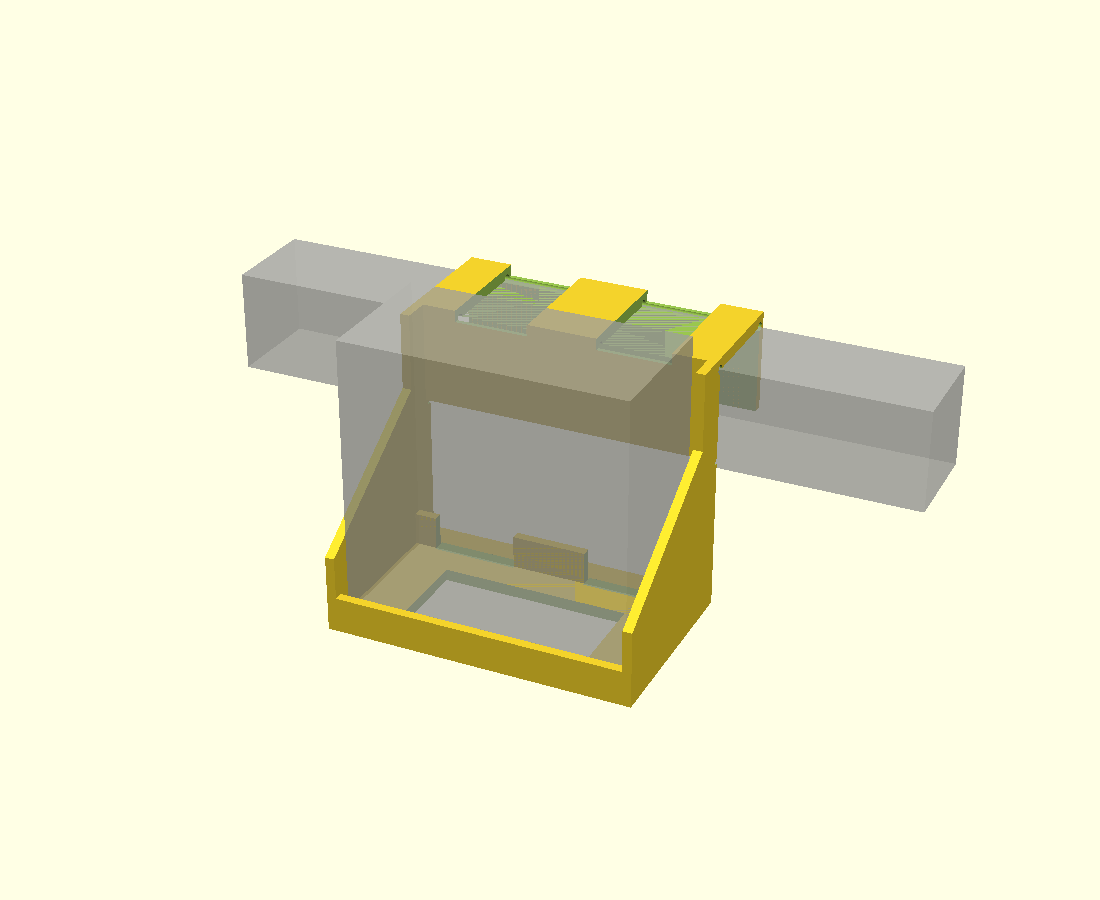
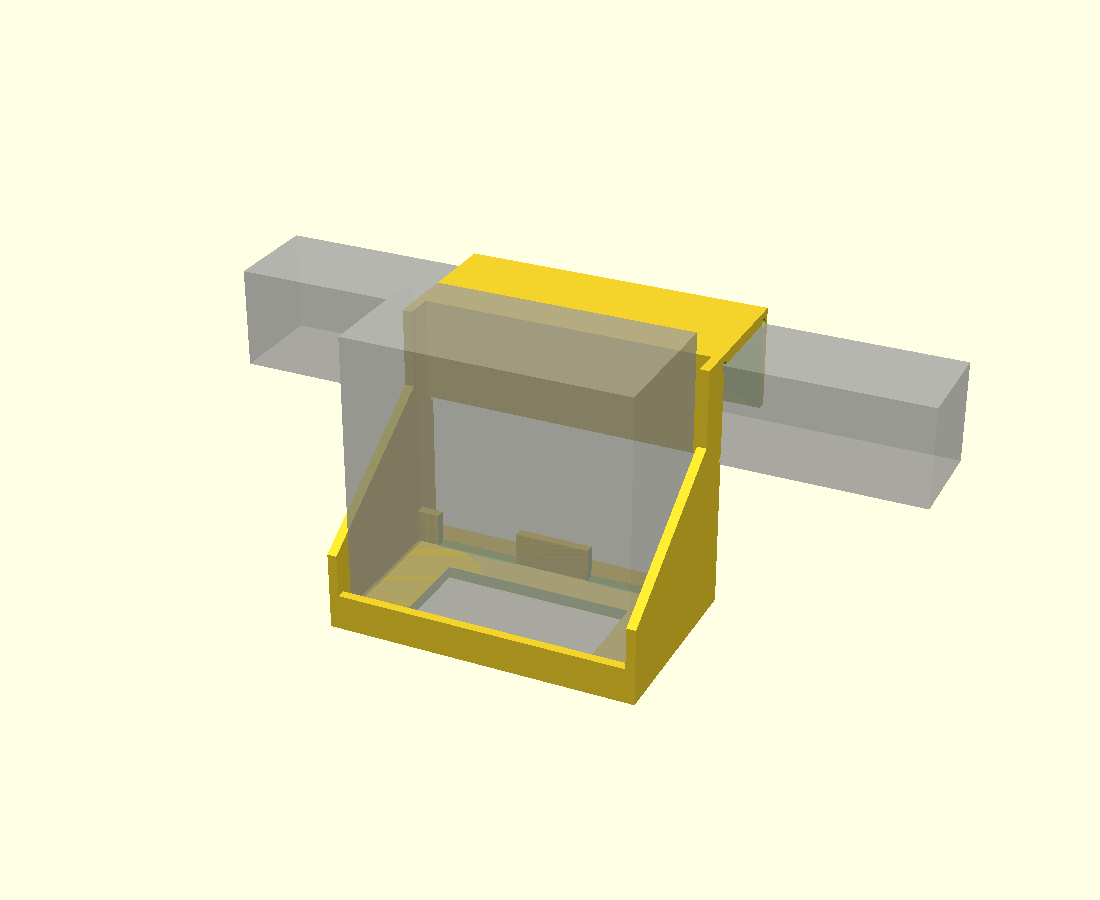
Simplify the rail saddle to a plain cap
Drop the two M4 clamp bosses and the top-plate lightening windows from
the default build, so the part that goes over the bed frame is a plain
inverted-U cap with nothing sticking out of it. Both features stay in
the source behind CLAMP_SCREWS and LIGHTEN for anyone who wants them
back; the README now points at a felt or rubber shim as the first answer
if the holder slides along the rail.

Triangle count drops from 2212 to 628 and the depth from 136.6 to
130.6 mm; the part is 13 cm3 heavier without the lightening windows.
Still manifold, still a single connected solid, still support-free.

Claude-Session: https://claude.ai/code/session_01VNsPG23j2ecuER3e7h8Lfk

diff --git a/hardware/sac5a-controller-mount/README.md b/hardware/sac5a-controller-mount/README.md
@@ -66,9 +66,9 @@
 
 ```
         ← ベッド側          外側 →
-              ┌───────────┐            ← M4 クランプねじ ×2
-         ●━━━━│  ∩ サドル  │              (ベッド側の脚から締める)
-              └─────┬─────┘            角パイプ 43×43 に上からかぶせる
+              ┌───────────┐
+              │  ∩ サドル  │            角パイプ 43×43 に上からかぶせるだけ
+              └─────┬─────┘            (ねじ・金具なしの一枚キャップ)
      角パイプ ══════╪══════
                    │  ↕ 12mm スタンドオフ
               ┌────┴──────────┐
@@ -109,11 +109,11 @@
 
 | 項目 | 値 |
 |---|---|
-| 全体寸法 | **131 (W) × 136.6 (D) × 110 (H) mm** |
+| 全体寸法 | **131 (W) × 130.6 (D) × 110 (H) mm** |
 | ポケット内寸 | 123 (W) × 63 (D) mm（本体 120×60 に片側 1.5 mm クリアランス） |
 | サドル内寸 | 43.6 mm |
-| 体積 | 145 cm³ |
-| 造形重量の目安 | 100 % 充填で約 180 g / 実用設定で **120〜140 g 程度** |
+| 体積 | 158 cm³ |
+| 造形重量の目安 | 100 % 充填で約 196 g / 実用設定で **130〜150 g 程度** |
 
 ---
 
@@ -131,19 +131,21 @@
 | サポート | **不要** |
 | ブリッジ | サドル天板の裏側が **43.6 mm のブリッジ**になります。ブリッジが苦手なプリンタはこの部分だけサポートを追加してください |
 
-ねじボスは 45° の円錐にしてあるので、水平方向に出ていてもサポートなしで造形できます。
-
 ---
 
 ## 5. 組み立て・取り付け
 
-**用意するもの**：M4 × 25 なべ小ねじ × 2 本（下穴 Ø3.4 のセルフタッピング）
+**ねじ・金具は不要です。**
 
-1. ベッドフレームの角パイプに、ホルダーを**上からかぶせる**
-2. ベッド側の脚にある 2 つのボスから **M4 ねじをねじ込み**、先端を角パイプに当ててガタを止める
-   （締めすぎるとボスが割れます。手応えが出たら止める）
-3. 制御タイマーを**上から落とし込む**（ディスプレイと操作ボタンが外側を向く向き）
-4. 背面の開口部から**送風機プラグと電源ケーブルを接続**し、背面リップの切り欠きにケーブルを通して下へ逃がす
+1. ベッドフレームの角パイプに、ホルダーを**上からかぶせる**（脚の下端に面取りがあるので入りやすいはずです）
+2. 制御タイマーを**上から落とし込む**（ディスプレイと操作ボタンが外側を向く向き）
+3. 背面の開口部から**送風機プラグと電源ケーブルを接続**し、背面リップの切り欠きにケーブルを通して下へ逃がす
+
+**レール上を横に滑ってしまう場合**は、次のどちらかで止まります。
+
+- サドルの内側に**フェルトかゴムシートを 1 枚貼る**（いちばん手軽）
+- `CLAMP_SCREWS = true` にして再ビルドすると、ベッド側の脚に **M4 ねじボスが 2 か所**生えます
+  （M4 × 25 なべ小ねじ × 2 本、下穴 Ø3.4 のセルフタッピング。締めすぎるとボスが割れるので手応えが出たら止める）
 
 > **電池交換（年1回）のときは本体を一度持ち上げて外してください。**
 > ホルダーに載せたままでは電池カバーのツマミを回すスペースがありません。
@@ -165,7 +167,8 @@
 | `DROP` | 100 | 落とし込み量（**98 未満にしない**） |
 | `SIDE_H_BACK` / `SIDE_H_FRONT` | 72 / 28 | 側板の高さ（背面側 / 正面側） |
 | `FRONT_LIP_H` | 10 | 正面リップ。**上げすぎると操作ボタンを塞ぐ** |
-| `CLAMP_SCREWS` | true | false にするとねじなしの摩擦保持だけになる |
+| `CLAMP_SCREWS` | false | true にするとベッド側の脚に M4 ねじボスが 2 か所生える |
+| `LIGHTEN` | false | true にするとサドル天板に肉抜き窓が 2 か所開く（約 16 g 軽くなる） |
 
 ### ビルド
 
